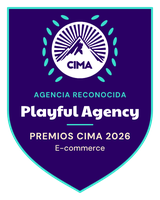
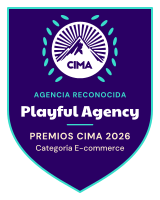
feat(firma): página /firma/alejandra-da-costa para copiar firma Gmail + X-Robots noindex en /firma y /images/firmas (#349)

diff --git a/app/firma/alejandra-da-costa/firma-html.ts b/app/firma/alejandra-da-costa/firma-html.ts
@@ -1,0 +1,2 @@
+// Firma Gmail v2.2 de Alejandra Da Costa (HTML literal, URLs absolutas).
+export const FIRMA_ALEJANDRA_HTML = "<table cellpadding=\"0\" cellspacing=\"0\" border=\"0\" role=\"presentation\" width=\"560\" style=\"width:560px;max-width:100%;font-family:Arial,Helvetica,sans-serif;\">\n<tr><td colspan=\"2\" height=\"6\" bgcolor=\"#440099\" style=\"background:#440099;height:6px;font-size:0;line-height:0;\">&nbsp;</td></tr>\n<tr><td bgcolor=\"#FFF8EC\" style=\"background:#FFF8EC;\">\n<table cellpadding=\"0\" cellspacing=\"0\" border=\"0\" role=\"presentation\" width=\"100%\"><tr><td width=\"88\" valign=\"top\" style=\"padding:22px 0 18px 16px;\"><img src=\"https://playfulagency.com/images/firmas/foto-alejandra-da-costa-176.png\" width=\"88\" height=\"88\" alt=\"Alejandra Da Costa\" style=\"display:block;border:0;width:88px;height:88px;\"></td><td width=\"14\"></td><td width=\"2\" bgcolor=\"#E9D7FF\" style=\"background:#E9D7FF;width:2px;font-size:0;\">&nbsp;</td>\n<td valign=\"top\" style=\"padding:22px 10px 18px 18px;\">\n<a href=\"https://playfulagency.com\"><img src=\"https://playfulagency.com/images/firmas/logo-playful-morado-280.png\" width=\"140\" height=\"33\" alt=\"Playful Agency\" style=\"display:block;border:0;width:140px;height:33px;\"></a>\n<div style=\"font-family:'Arial Black',Arial,Helvetica,sans-serif;font-weight:900;font-size:20px;line-height:24px;letter-spacing:-0.3px;color:#440099;padding-top:14px;\">Alejandra Da Costa</div>\n<div style=\"padding-top:4px;\"><span style=\"font-family:Arial,Helvetica,sans-serif;font-size:11px;line-height:14px;letter-spacing:2px;font-weight:700;color:#4A4453;text-transform:uppercase;\">CEO</span></div>\n<table cellpadding=\"0\" cellspacing=\"0\" border=\"0\" role=\"presentation\" style=\"margin:10px 0 10px 0;\"><tr><td width=\"32\" height=\"3\" bgcolor=\"#39DDCB\" style=\"background:#39DDCB;height:3px;font-size:0;line-height:0;\">&nbsp;</td></tr></table>\n<table cellpadding=\"0\" cellspacing=\"0\" border=\"0\" role=\"presentation\"><tr><td width=\"46\" valign=\"top\" style=\"width:46px;padding:2px 8px 4px 0;line-height:14px;white-space:nowrap;\"><span style=\"font-family:Arial,Helvetica,sans-serif;font-size:10px;line-height:14px;letter-spacing:1px;font-weight:700;color:#1A8479;text-transform:uppercase;\">Móvil</span></td><td style=\"padding:0 0 4px 0;font-family:Arial,Helvetica,sans-serif;font-size:13px;line-height:18px;color:#2A0064;\"><a href=\"tel:+584141752062\" style=\"color:#2A0064;text-decoration:none;\">+58 414 175 20 62</a></td></tr><tr><td width=\"46\" valign=\"top\" style=\"width:46px;padding:2px 8px 4px 0;line-height:14px;white-space:nowrap;\"><span style=\"font-family:Arial,Helvetica,sans-serif;font-size:10px;line-height:14px;letter-spacing:1px;font-weight:700;color:#1A8479;text-transform:uppercase;\">Email</span></td><td style=\"padding:0 0 4px 0;font-family:Arial,Helvetica,sans-serif;font-size:13px;line-height:18px;color:#2A0064;\"><a href=\"mailto:ale@playfulagency.com\" style=\"color:#2A0064;text-decoration:none;\">ale@playfulagency.com</a></td></tr><tr><td width=\"46\" valign=\"top\" style=\"width:46px;padding:2px 8px 4px 0;line-height:14px;white-space:nowrap;\"><span style=\"font-family:Arial,Helvetica,sans-serif;font-size:10px;line-height:14px;letter-spacing:1px;font-weight:700;color:#1A8479;text-transform:uppercase;\">Web</span></td><td style=\"padding:0 0 4px 0;font-family:Arial,Helvetica,sans-serif;font-size:13px;line-height:18px;color:#2A0064;\"><a href=\"https://playfulagency.com\" style=\"color:#2A0064;text-decoration:none;\">playfulagency.com</a></td></tr></table>\n<div style=\"padding-top:8px;\"><a href=\"https://www.linkedin.com/company/playful-agency/\" style=\"font-family:Arial,Helvetica,sans-serif;font-size:10px;line-height:14px;letter-spacing:1.5px;font-weight:700;color:#440099;text-decoration:none;\">LINKEDIN</a> <span style='color:#BD88FF;'>/</span> <a href=\"https://www.instagram.com/somosplayful\" style=\"font-family:Arial,Helvetica,sans-serif;font-size:10px;line-height:14px;letter-spacing:1.5px;font-weight:700;color:#440099;text-decoration:none;\">INSTAGRAM</a> <span style='color:#BD88FF;'>/</span> <a href=\"https://www.facebook.com/somosplayful\" style=\"font-family:Arial,Helvetica,sans-serif;font-size:10px;line-height:14px;letter-spacing:1.5px;font-weight:700;color:#440099;text-decoration:none;\">FACEBOOK</a> <span style='color:#BD88FF;'>/</span> <a href=\"https://www.youtube.com/channel/UCT_NSpYZCqu7oW0nANwfnEw\" style=\"font-family:Arial,Helvetica,sans-serif;font-size:10px;line-height:14px;letter-spacing:1.5px;font-weight:700;color:#440099;text-decoration:none;\">YOUTUBE</a></div>\n</td></tr></table></td></tr>\n<tr><td height=\"4\" bgcolor=\"#39DDCB\" style=\"background:#39DDCB;height:4px;font-size:0;line-height:0;\">&nbsp;</td></tr>\n<tr><td bgcolor=\"#2A0064\" style=\"background:#2A0064;\">\n<table cellpadding=\"0\" cellspacing=\"0\" border=\"0\" role=\"presentation\" width=\"100%\"><tr>\n<td width=\"80\" valign=\"middle\" style=\"padding:14px 0 14px 20px;\"><a href=\"https://playfulagency.com/blog/otros/premios-cima-2026-soytechno-playful\"><img src=\"https://playfulagency.com/images/firmas/escudo-cima-2026-d3-oscuro-160x200.png\" width=\"80\" height=\"100\" alt=\"Playful Agency · Agencia reconocida · Premios CIMA 2026 · Categoría E-commerce\" style=\"display:block;border:0;width:80px;height:100px;\"></a></td>\n<td valign=\"middle\" style=\"padding:14px 20px 14px 16px;\">\n<span style=\"font-family:Arial,Helvetica,sans-serif;font-size:10px;line-height:14px;letter-spacing:2px;font-weight:700;color:#39DDCB;text-transform:uppercase;\">Agencia reconocida · Categoría E&#8209;commerce</span>\n<div style=\"font-family:'Arial Black',Arial,Helvetica,sans-serif;font-weight:900;font-size:18px;line-height:22px;letter-spacing:-0.3px;color:#FFFFFF;padding-top:4px;\">Premios CIMA 2026</div>\n<div style=\"font-family:Arial,Helvetica,sans-serif;font-size:13px;line-height:18px;color:#E9D7FF;\">con SoyTechno</div>\n<table cellpadding=\"0\" cellspacing=\"0\" border=\"0\" role=\"presentation\" style=\"margin-top:10px;\"><tr><td bgcolor=\"#39DDCB\" style=\"background:#39DDCB;padding:7px 12px;\"><a href=\"https://playfulagency.com/blog/otros/premios-cima-2026-soytechno-playful\" style=\"font-family:Arial,Helvetica,sans-serif;font-size:10px;line-height:12px;letter-spacing:1.5px;font-weight:700;color:#280059;text-decoration:none;\">VER EL CASO &rarr;</a></td></tr></table>\n</td></tr></table></td></tr></table>";

diff --git a/app/firma/alejandra-da-costa/CopyFirma.tsx b/app/firma/alejandra-da-costa/CopyFirma.tsx
@@ -1,0 +1,60 @@
+'use client';
+
+import { useRef, useState } from 'react';
+
+export default function CopyFirma({ html }: { html: string }) {
+  const ref = useRef<HTMLDivElement>(null);
+  const [estado, setEstado] = useState<'idle' | 'ok' | 'error'>('idle');
+
+  const copiarSeleccion = () => {
+    const el = ref.current;
+    if (!el) return false;
+    const range = document.createRange();
+    range.selectNodeContents(el);
+    const sel = window.getSelection();
+    sel?.removeAllRanges();
+    sel?.addRange(range);
+    let ok = false;
+    try { ok = document.execCommand('copy'); } catch { ok = false; }
+    sel?.removeAllRanges();
+    return ok;
+  };
+
+  const copiar = async () => {
+    const texto = ref.current?.innerText ?? '';
+    try {
+      if (typeof ClipboardItem !== 'undefined' && navigator.clipboard?.write) {
+        await navigator.clipboard.write([
+          new ClipboardItem({
+            'text/html': new Blob([html], { type: 'text/html' }),
+            'text/plain': new Blob([texto], { type: 'text/plain' }),
+          }),
+        ]);
+        setEstado('ok');
+        return;
+      }
+    } catch {
+      /* sigue con el respaldo */
+    }
+    setEstado(copiarSeleccion() ? 'ok' : 'error');
+  };
+
+  return (
+    <div>
+      <div style={{ background: '#fff', border: '1px solid #E9D7FF', padding: 12, overflowX: 'auto' }}>
+        <div ref={ref} dangerouslySetInnerHTML={{ __html: html }} />
+      </div>
+      <button
+        type="button"
+        onClick={copiar}
+        style={{ marginTop: 16, background: '#440099', color: '#fff', border: 0, padding: '12px 20px', fontSize: 15, fontWeight: 700, cursor: 'pointer', borderRadius: 6 }}
+      >
+        Copiar firma
+      </button>
+      <span role="status" style={{ marginLeft: 12, fontSize: 14 }}>
+        {estado === 'ok' && '¡Copiada! Ahora pégala en Gmail.'}
+        {estado === 'error' && 'No se pudo copiar: selecciona la firma y pulsa Ctrl/Cmd + C.'}
+      </span>
+    </div>
+  );
+}

diff --git a/app/firma/alejandra-da-costa/page.tsx b/app/firma/alejandra-da-costa/page.tsx
@@ -1,0 +1,22 @@
+import type { Metadata } from 'next';
+import CopyFirma from './CopyFirma';
+import { FIRMA_ALEJANDRA_HTML } from './firma-html';
+
+export const metadata: Metadata = {
+  title: 'Firma de Gmail · Alejandra Da Costa',
+  robots: { index: false, follow: false, googleBot: { index: false, follow: false } },
+};
+
+export default function FirmaAlejandraPage() {
+  return (
+    <main style={{ maxWidth: 640, margin: '0 auto', padding: '32px 16px 48px', fontFamily: 'Arial, Helvetica, sans-serif', color: '#2A0064' }}>
+      <h1 style={{ fontSize: 22, margin: '0 0 16px' }}>Tu firma de Gmail</h1>
+      <CopyFirma html={FIRMA_ALEJANDRA_HTML} />
+      <ol style={{ fontSize: 15, lineHeight: '22px', paddingLeft: 20, marginTop: 24 }}>
+        <li>Pulsa «Copiar firma».</li>
+        <li>En Gmail: Configuración (rueda) → Ver todos los ajustes → Firma → Crear.</li>
+        <li>Pega la firma en el recuadro y pulsa «Guardar cambios» al final de la página.</li>
+      </ol>
+    </main>
+  );
+}

diff --git a/next.config.js b/next.config.js
@@ -48,7 +48,10 @@ const nextConfig = {
       key: 'Cache-Control',
       value: 'public, s-maxage=3600, stale-while-revalidate=86400',
     };
+    const noIndex = { key: 'X-Robots-Tag', value: 'noindex, nofollow' };
     return [
+      { source: '/firma/:path*', headers: [noIndex] },
+      { source: '/images/firmas/:path*', headers: [noIndex] },
       {
         source:
           '/:slug(agencia-e-commerce|agencia-seo|agencia-sem|agencia-diseno-web|agencia-ux-ui|marketing-internacional|seo-expertos|seo-vigo)',
